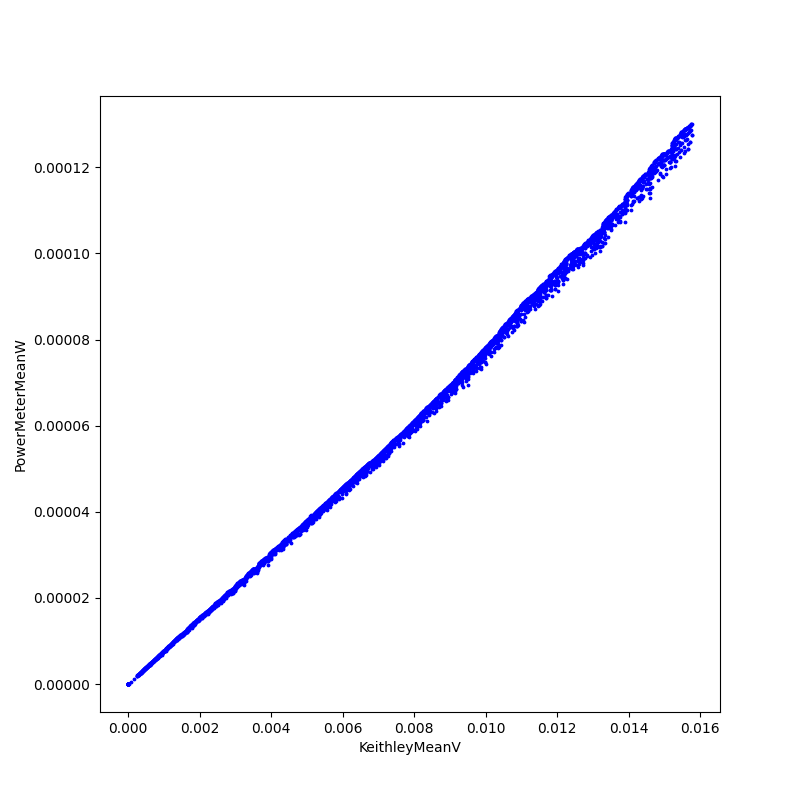
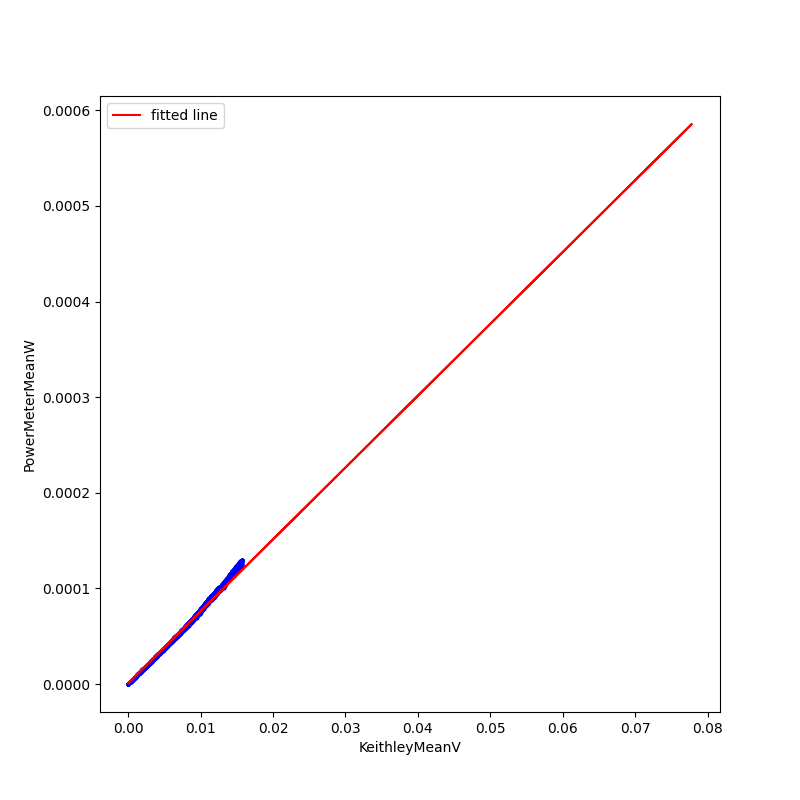
Co-authored-by: mseglar <mseglar@users.noreply.github.com>

diff --git a/test.py b/test.py
@@ -31,18 +31,20 @@ NDF3=run.loc[run['NDFilter'] == 3]
 
 
 ################### W vs. V ###################
+x=NDF1['KeithleyMeanV'].values
+y=NDF1['PowerMeterMeanW'].values
+res = linregress(x, y)
+#plt.savefig(nameDir+'/Mean_NDF1.png')
 NDF1.plot(kind='scatter', figsize=(8, 8), x='KeithleyMeanV', y='PowerMeterMeanW', s=3, c='green')
+plt.plot(x, res.intercept + res.slope*x, 'r', label='fitted line')
+plt.legend()
+plt.savefig(nameDir+'/Mean_NDF1.png')
 #from sklearn.linear_model import LinearRegression
 #linear_regressor = LinearRegression()  # create object for the class
 #linear_regressor.fit(run.loc, Y)  # perform linear regression
 
 #Linear fit 
-x=run['KeithleyMeanV'].values
-y=run['PowerMeterMeanW'].values
-result = linregress(x, y)
 
-# TODO: Add the linear fit to the plot
-plt.savefig(nameDir+'/Mean_NDF1.png')
 NDF2.plot(kind='scatter', figsize=(8, 8), x='KeithleyMeanV', y='PowerMeterMeanW', s=3, c='blue')
 plt.savefig(nameDir+'/Mean_NDF2.png')
 NDF3.plot(kind='scatter', figsize=(8, 8), x='KeithleyMeanV', y='PowerMeterMeanW', s=3, c='magenta')
@@ -88,6 +90,7 @@ plt.savefig(nameDir+'/h123.png')
 
 PowerMeterStdW=run["PowerMeterStdW"]
 bins=np.arange(min(PowerMeterStdW), max(PowerMeterStdW) + 10**-6, 10**-6)
+fig, ax = plt.subplots()
 plt.hist(PowerMeterStdW, bins)
 #plt.ylim(0,200)
 plt.yscale('log')
@@ -99,6 +102,7 @@ plt.savefig(nameDir+'/h2.png')
 
 KeithleyMeanV=run["KeithleyMeanV"]
 bins=np.arange(min(KeithleyMeanV), max(KeithleyMeanV) + 10**-6, 10**-6)
+fig, ax = plt.subplots()
 plt.hist(KeithleyMeanV, bins)
 #plt.ylim(0,200)
 plt.yscale('log')
